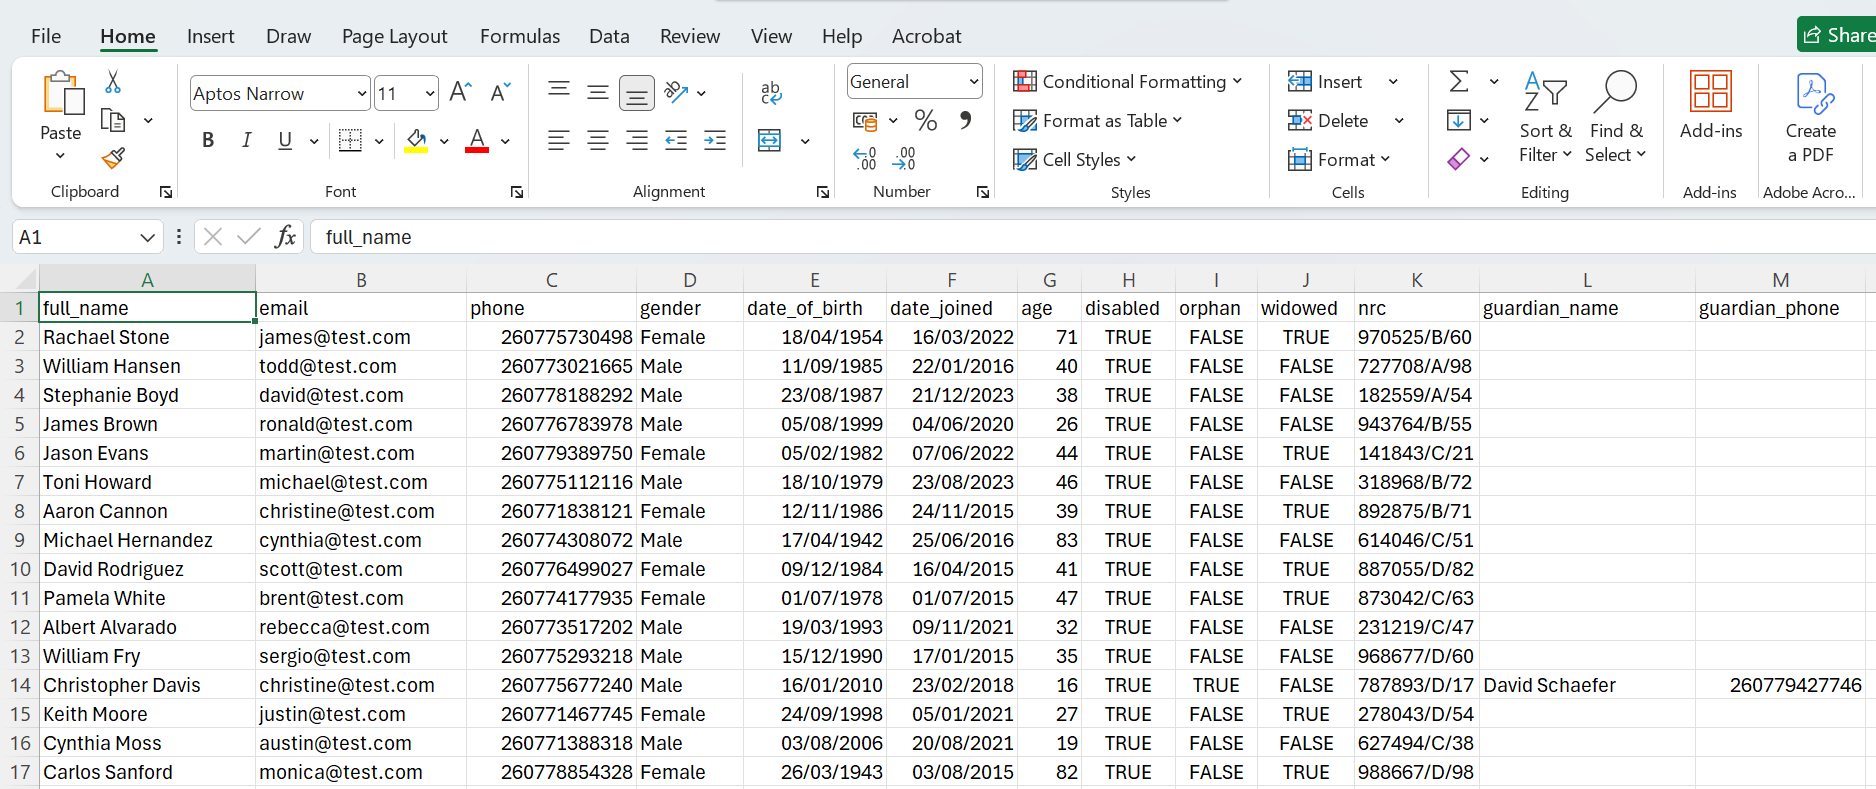
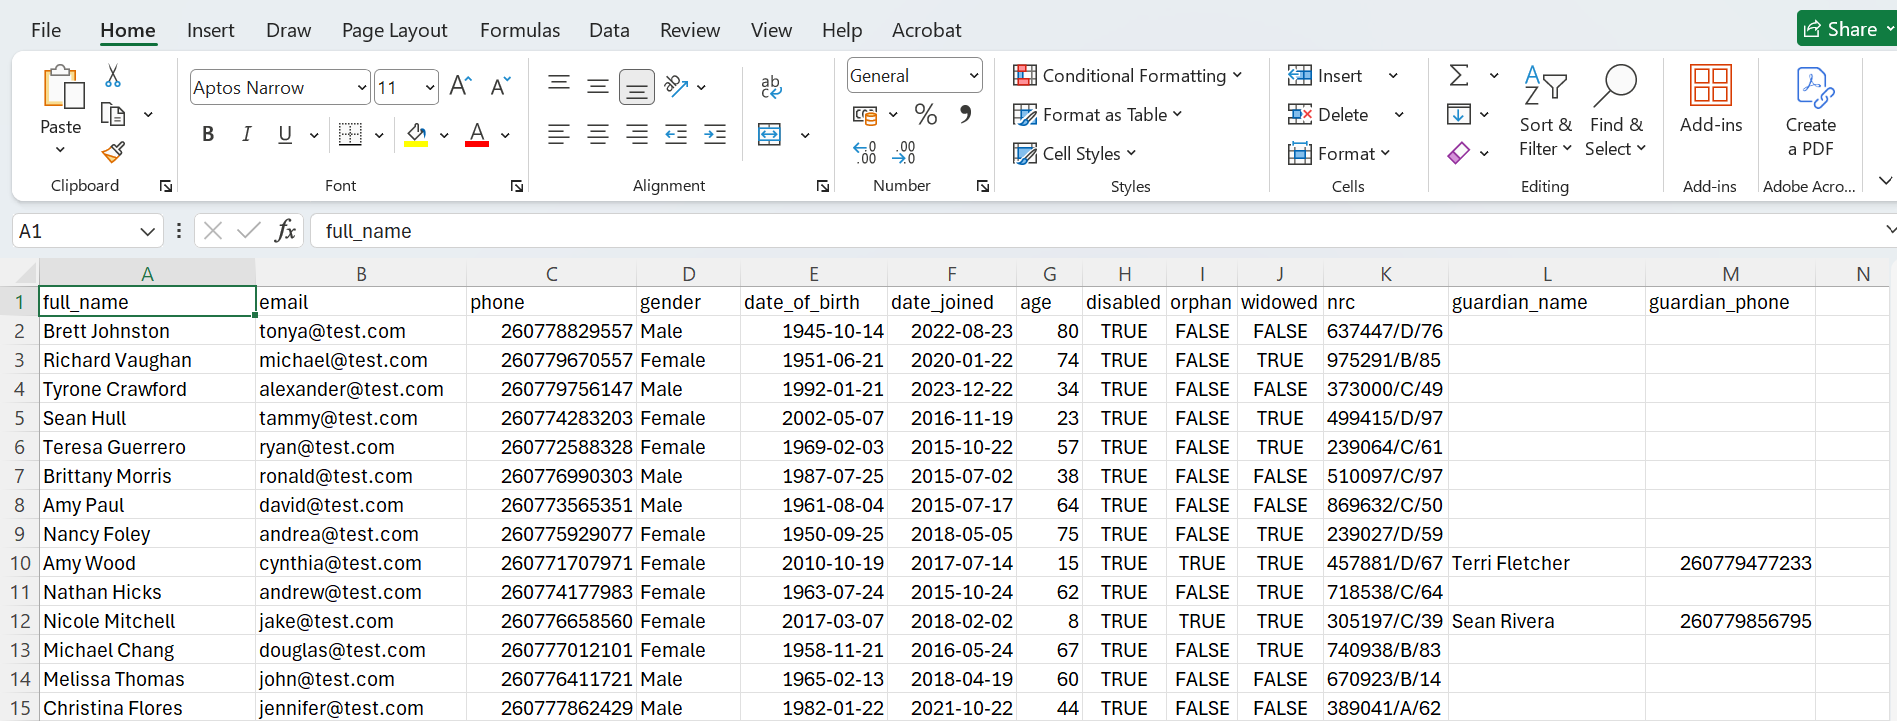
updated the members guide to include date formatting

diff --git a/src/pages/congregation/uploadMembers.tsx b/src/pages/congregation/uploadMembers.tsx
@@ -8,6 +8,11 @@ import step2 from "../../assets/step2.png";
 import step3 from "../../assets/step3.png";
 import optional from "../../assets/optional.png";
 import step4 from "../../assets/step4.png";
+import step5 from "../../assets/step5_Members.png";
+import step6 from "../../assets/step6_Members.png";
+import step7 from "../../assets/step7_Members.png";
+import step8 from "../../assets/step8_Members.png";
+import step9 from "../../assets/step9_Members.png";
 
 const baseURL = import.meta.env.VITE_BASE_URL;
 
@@ -28,7 +33,7 @@ const UploadMembersGuide: React.FC = () => {
   const dropZoneRef = useRef<HTMLDivElement | null>(null);
   const fileInputRef = useRef<HTMLInputElement | null>(null);
 
-  const slidesCount = 6;
+  const slidesCount = 11;
 
   /* ======================
      Carousel Logic
@@ -229,7 +234,9 @@ const UploadMembersGuide: React.FC = () => {
                     Ensure column names <strong>Match</strong> the guide shown.
                   </li>
                   <li>
-                    <strong>date_of_birth</strong> and <strong>date_joined</strong> should be in the <code>Date</code> format.
+                    <strong>date_of_birth</strong> and <strong>date_joined</strong> should be in the <code>Date (yyyy-mm-dd)</code> format.
+                    <br/>
+                    If the date format is not <code>yyyy-mm-dd</code> then go to <strong>step 5</strong>.
                   </li>
                   <li>
                     All other columns can take the <strong> general format</strong>
@@ -354,6 +361,104 @@ const UploadMembersGuide: React.FC = () => {
             </div>
 
             {/* Slide 6 */}
+            <div className="carousel-slide">
+              <div className="carousel-left">
+                <h3>Step 5: Set the Date Format</h3>
+                <ul>
+                  <li>
+                    Select both the <strong>date_of_birth</strong> and <strong>date_joined</strong> columns.
+                  </li>
+                  <li>
+                    You can do so, by holding down the control button after selecting the first column.
+                  </li>
+                </ul>
+              </div>
+              <div className="carousel-right">
+                <img
+                  src={step5}
+                  alt="Remove decimals"
+                  onClick={() => setZoomSrc(step5)}
+                />
+              </div>
+            </div>
+
+            {/* Slide 7 */}
+            <div className="carousel-slide">
+              <div className="carousel-left">
+                <h3>Step 6: Navigating cell formatter</h3>
+                <ul>
+                  <li>
+                    <strong>Right Click</strong> over the highlighted columns and click Format cells.
+                  </li>
+                </ul>
+              </div>
+              <div className="carousel-right">
+                <img
+                  src={step6}
+                  alt="Remove decimals"
+                  onClick={() => setZoomSrc(step6)}
+                />
+              </div>
+            </div>
+
+            {/* Slide 8 */}
+            <div className="carousel-slide">
+              <div className="carousel-left">
+                <h3>Step 7: Navigate to the custom Format</h3>
+                <ul>
+                  <li>
+                    This step may be <strong>optional</strong> if your Data types already includes the <code>yyyy-mm-dd</code> format.
+                  </li>
+                </ul>
+              </div>
+              <div className="carousel-right">
+                <img
+                  src={step7}
+                  alt="Remove decimals"
+                  onClick={() => setZoomSrc(step7)}
+                />
+              </div>
+            </div>
+
+            {/* Slide 9 */}
+            <div className="carousel-slide">
+              <div className="carousel-left">
+                <h3>Step 8: Set the custom date format</h3>
+                <ul>
+                  <li>
+                    Ensure you set the format to <strong><code>yyyy-mm-dd </code></strong> as shown in the image.
+                  </li>
+                </ul>
+              </div>
+              <div className="carousel-right">
+                <img
+                  src={step8}
+                  alt="Remove decimals"
+                  onClick={() => setZoomSrc(step8)}
+                />
+              </div>
+            </div>
+
+            {/* Slide 9 */}
+            <div className="carousel-slide">
+              <div className="carousel-left">
+                <h3>Step 9: Confirm Date format for columns</h3>
+                <ul>
+                  <li>
+                    Ensure <strong>date_of_birth</strong> and <strong>date_joined</strong> columns are in the <strong><code>yyyy-mm-dd </code></strong> format as shown in the image.
+                  </li>
+                </ul>
+              </div>
+              <div className="carousel-right">
+                <img
+                  src={step9}
+                  alt="Remove decimals"
+                  onClick={() => setZoomSrc(step9)}
+                />
+              </div>
+            </div>
+
+            {/* Slide 11 */}
             <div className="carousel-slide">
               <div className="carousel-left">
                 <h3>Final Step: Confirm Format meets requirements</h3>
